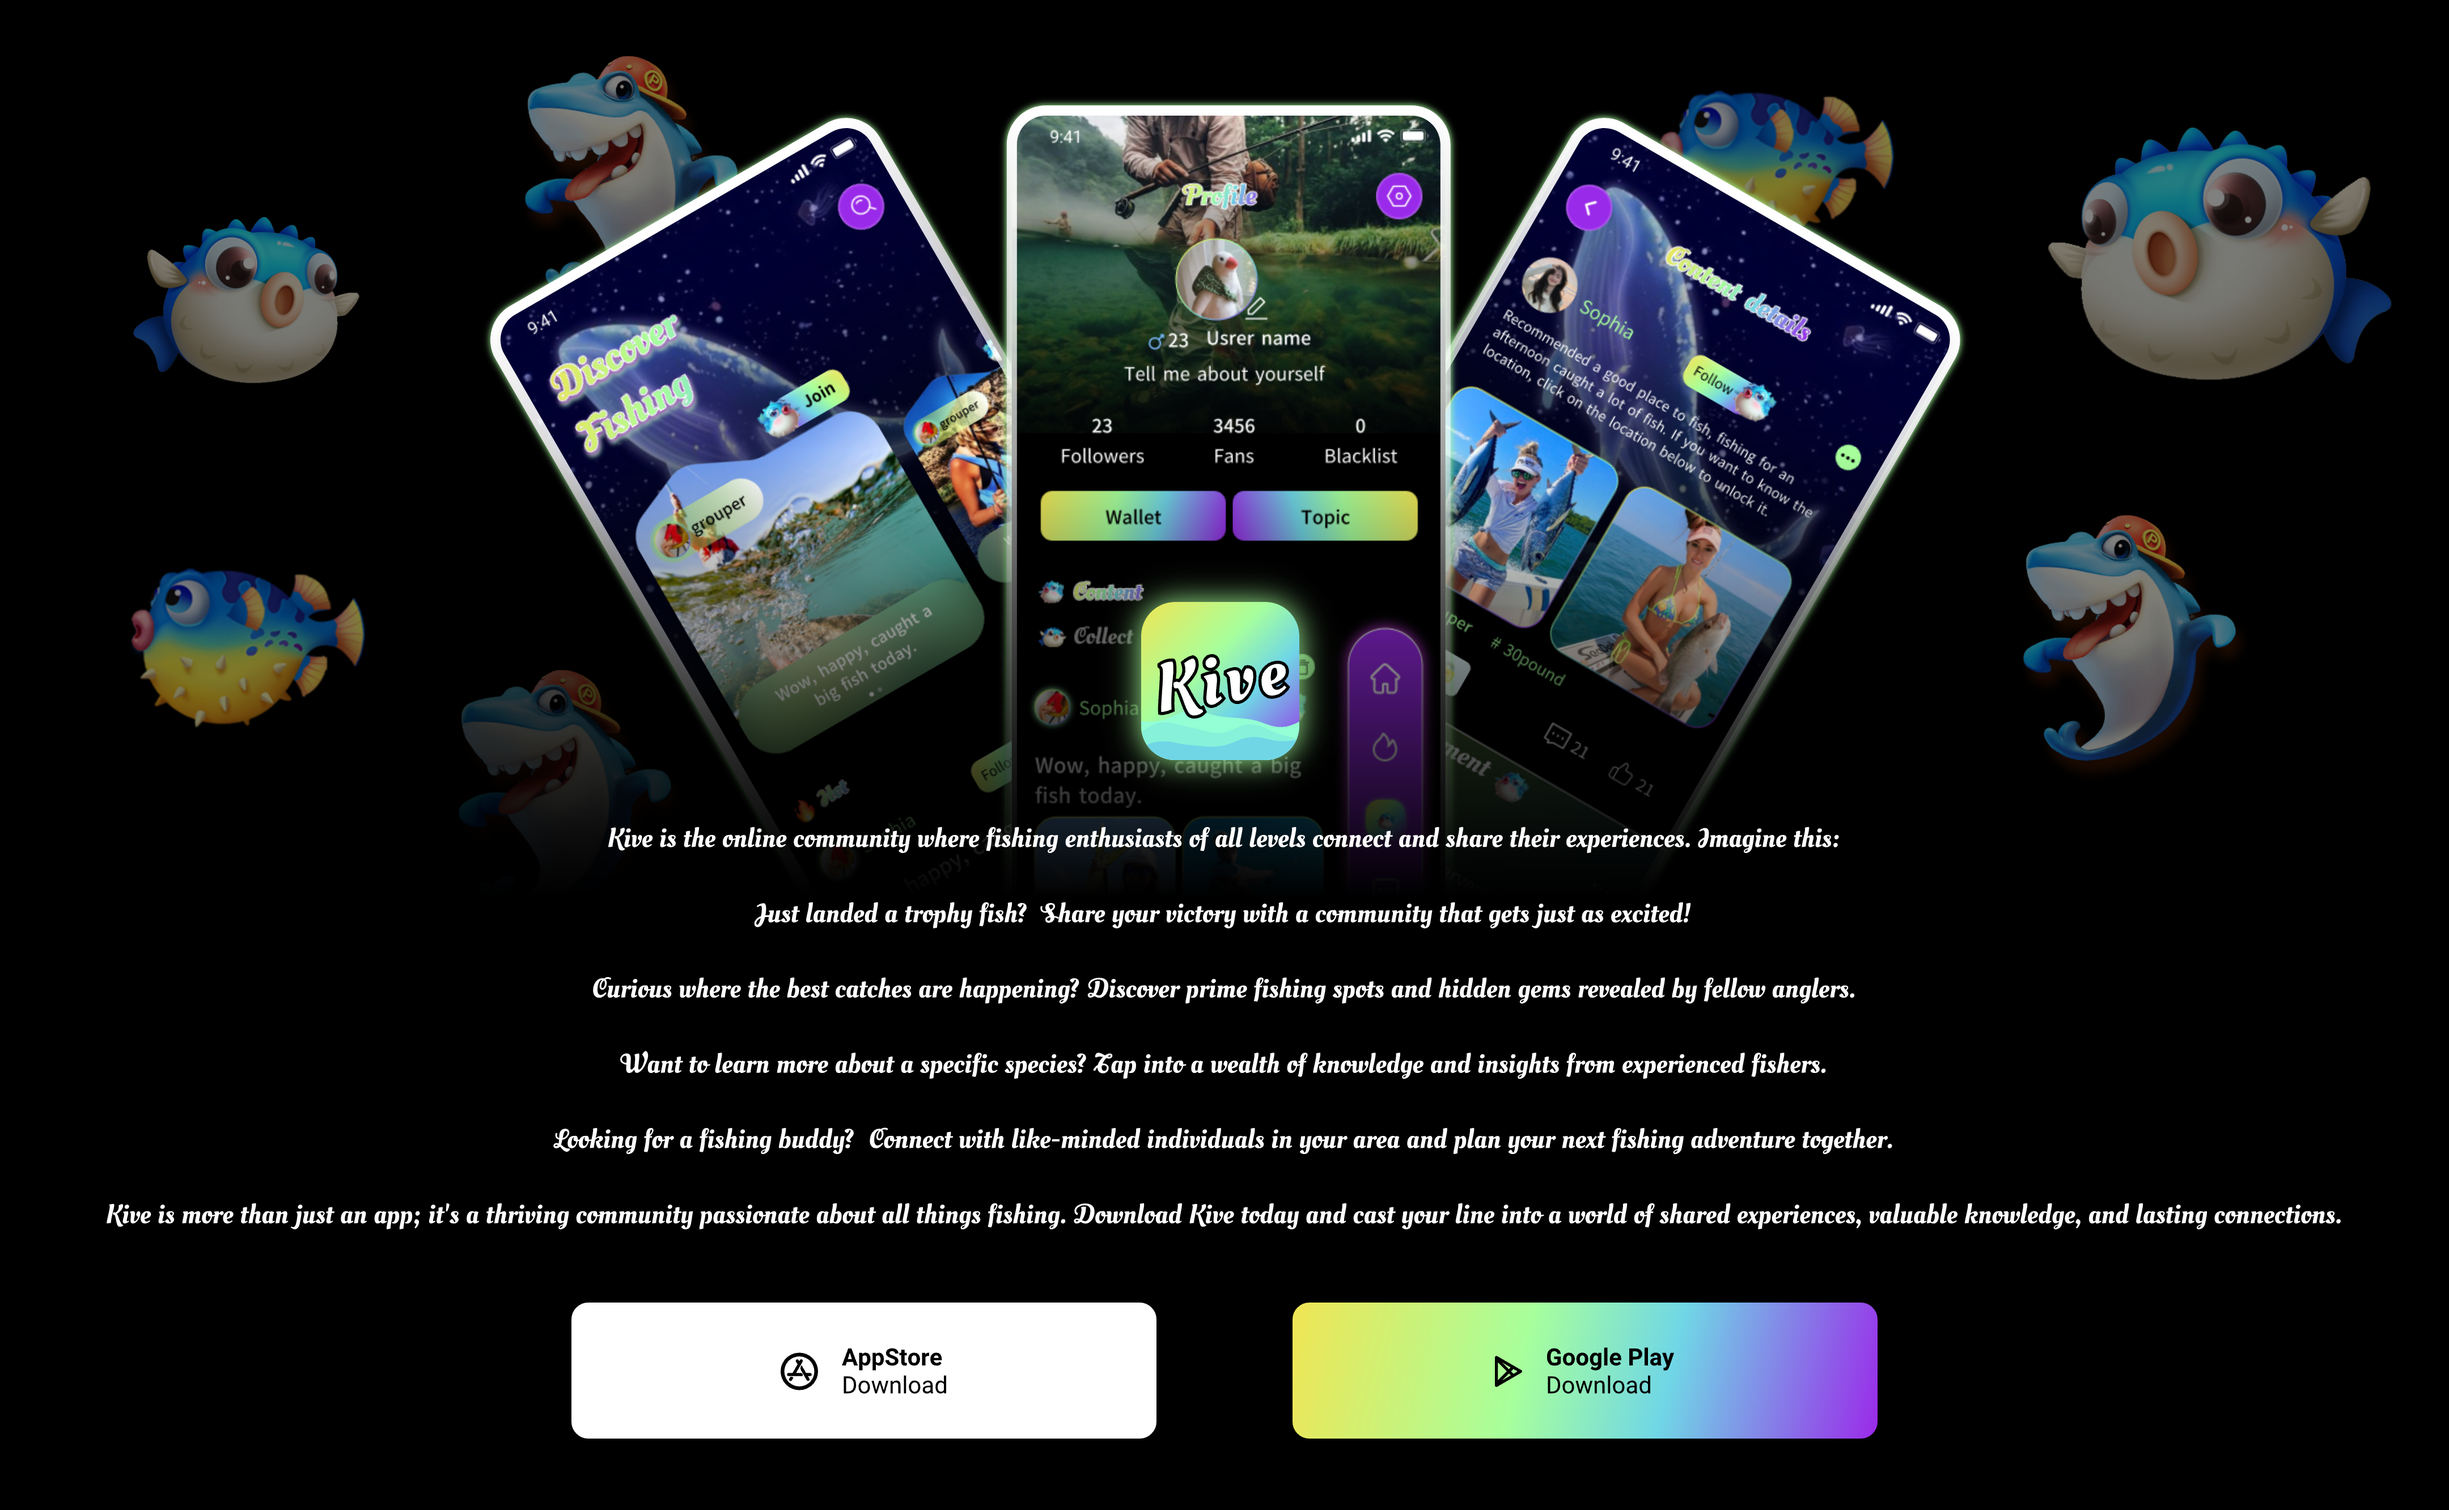
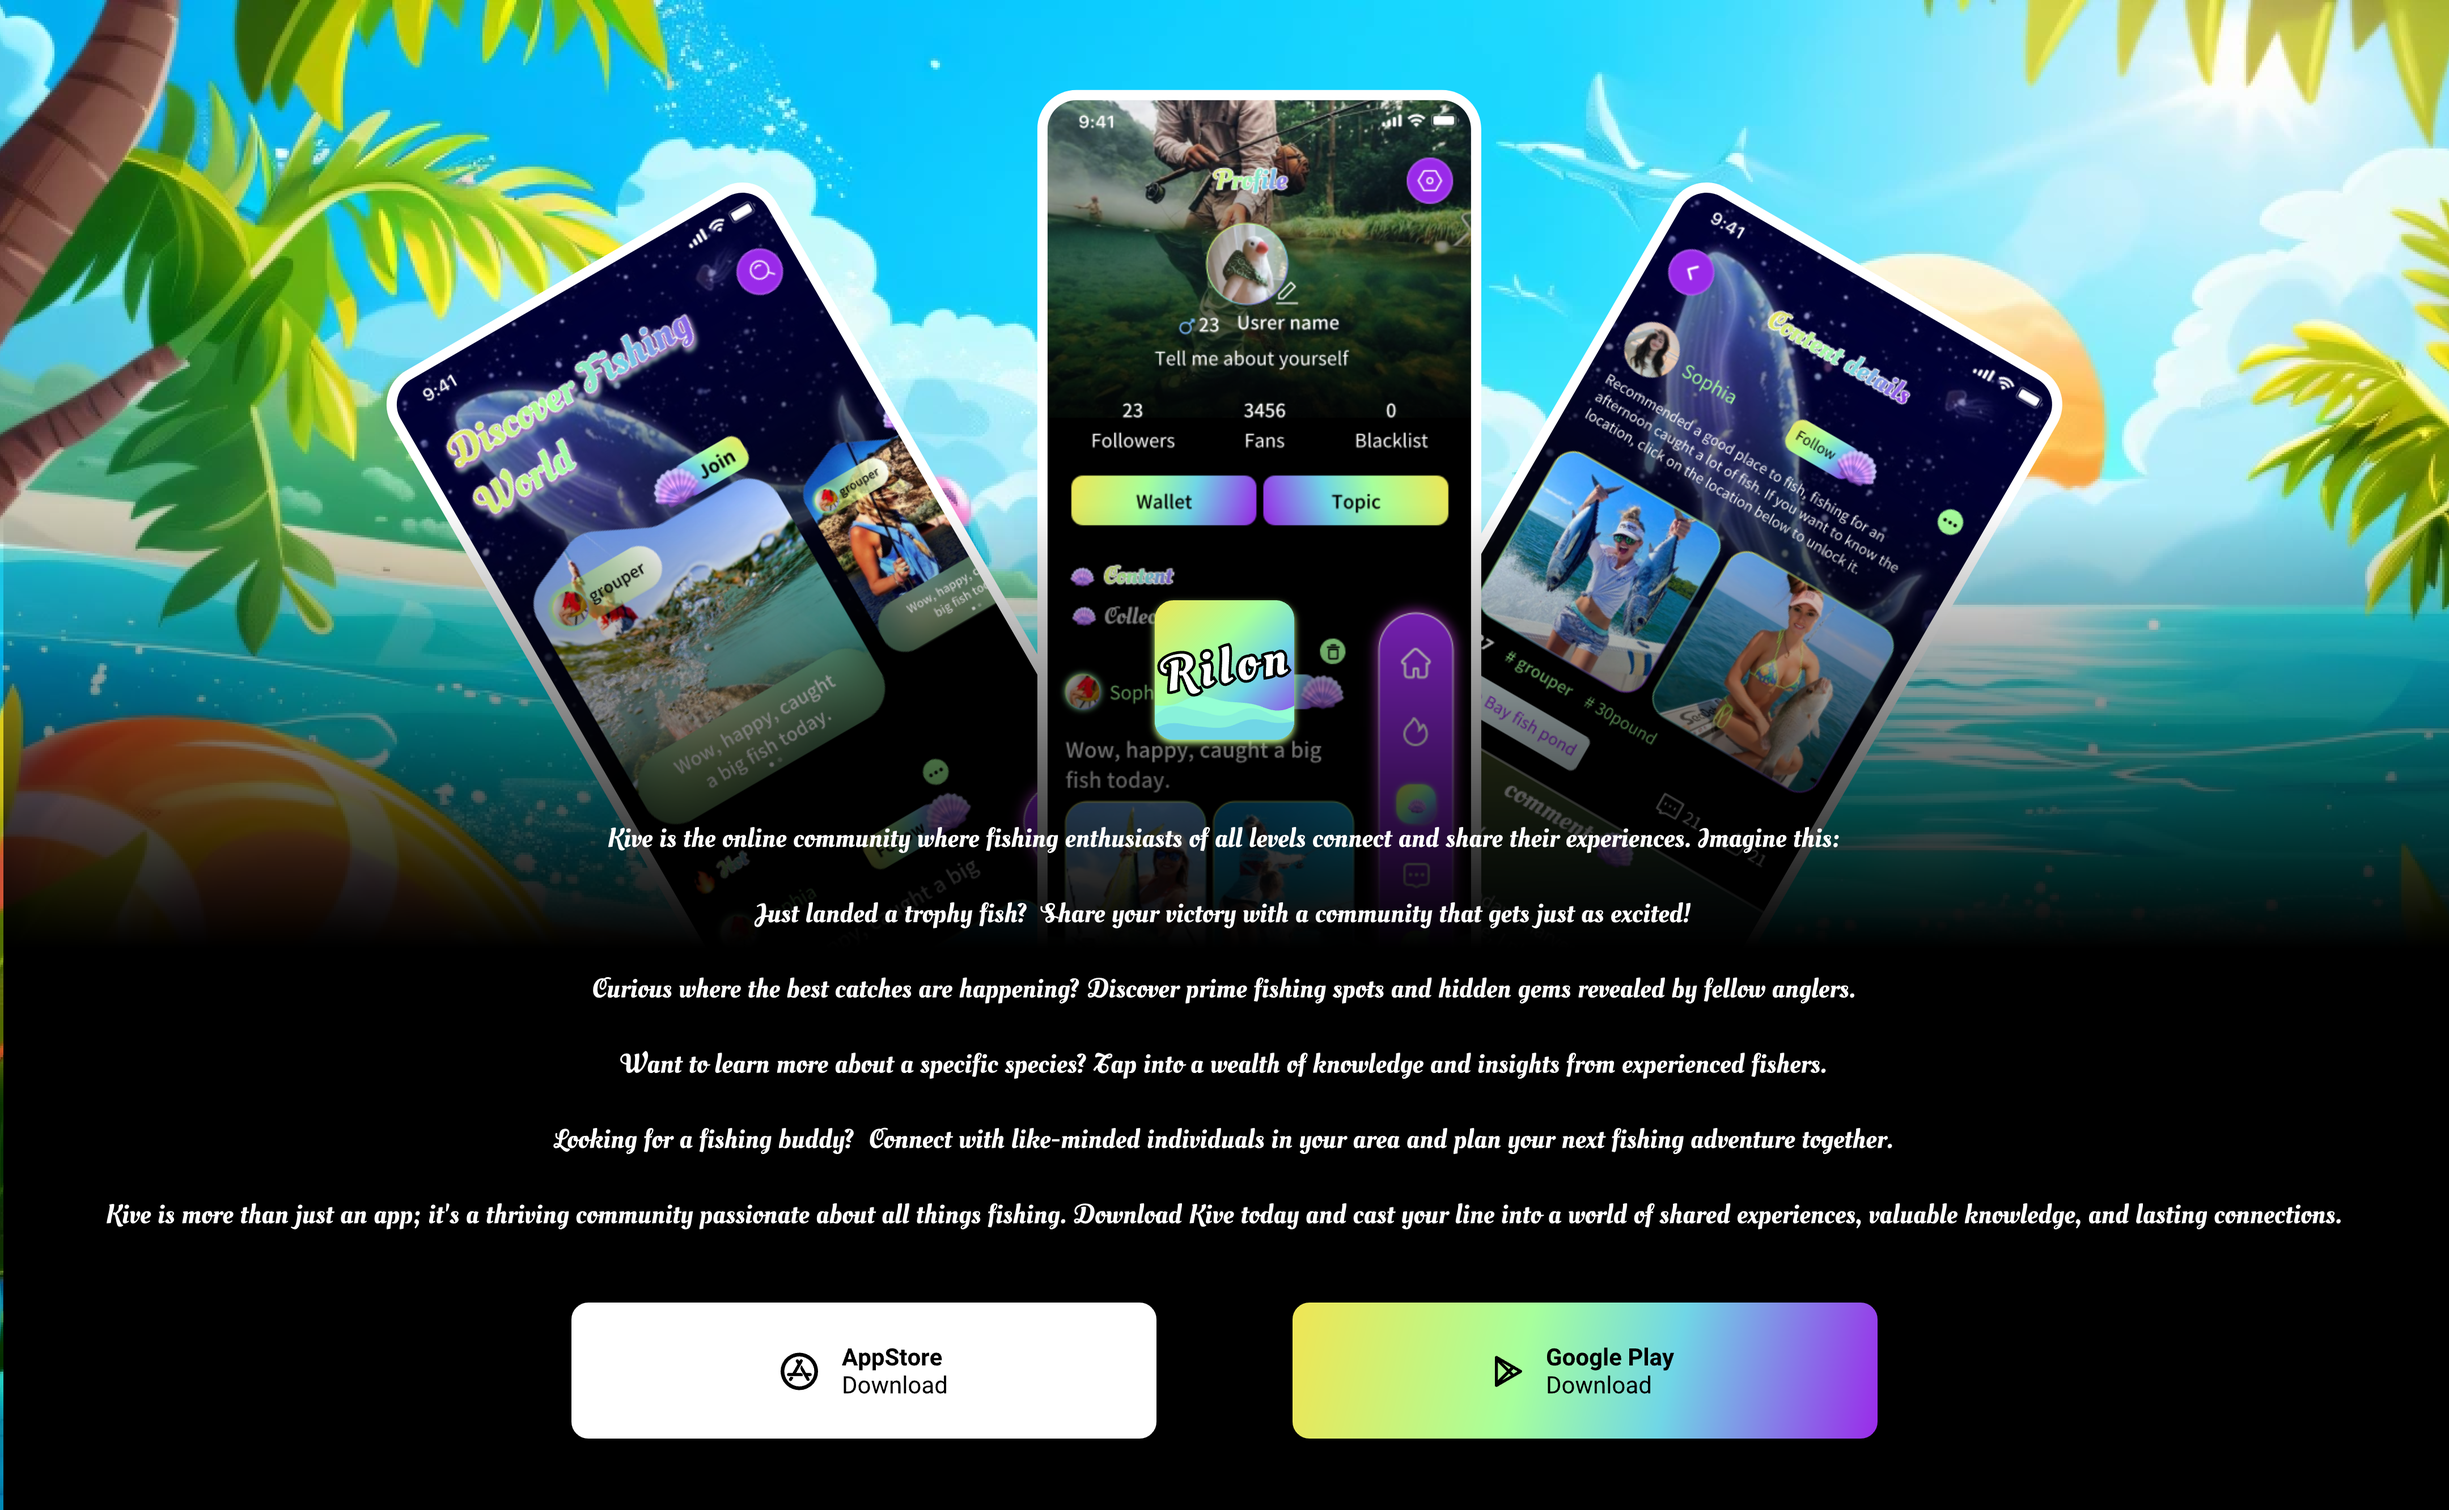
324232

diff --git a/index.html b/index.html
@@ -4,7 +4,7 @@
   <meta charset="UTF-8">
   <meta name="viewport" content="width=device-width, initial-scale=1.0">
   <link rel="icon" href="/favicon.svg" type="image/svg+xml">
-  <title>Kive</title>
+  <title>Rilon</title>
   <meta name="description" content="Opinionated Vite Starter Template">
 </head>
 <body class="font-sans">

diff --git a/src/pages/index.vue b/src/pages/index.vue
@@ -10,7 +10,7 @@ defineOptions({
 
     <div class="email" absolute bottom-10 w-full flex justify-center>
       <div rd-2 bg-white p-2 p-x-5 text-8 color-black>
-        639293382@qq.com
+        lixiaoyun1007@icloud.com
       </div>
     </div>
   </div>

diff --git a/src/pages/privacy.vue b/src/pages/privacy.vue
@@ -2,7 +2,7 @@
 defineOptions({
   name: 'IndexPage',
 })
-const appName = 'Kive'
+const appName = 'Rilon'
 </script>
 
 <template>

diff --git a/src/pages/users.vue b/src/pages/users.vue
@@ -2,7 +2,7 @@
 defineOptions({
   name: 'IndexPage',
 })
-const appName = 'Kive'
+const appName = 'Rilon'
 </script>
 
 <template>
